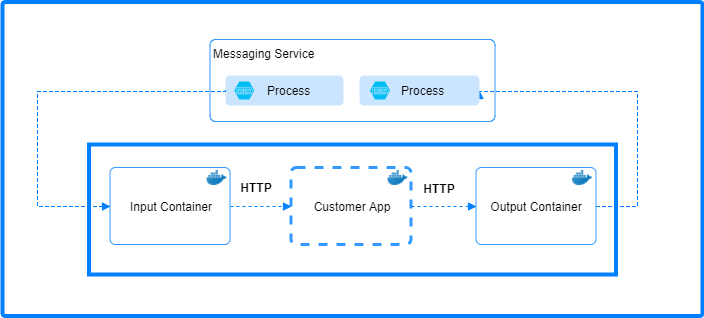
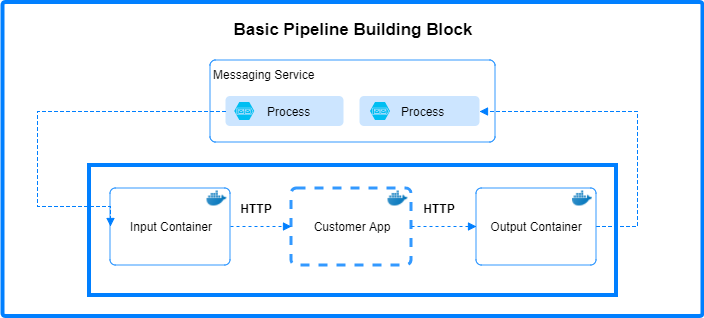
update diagrams acc code review

diff --git a/docs/assets/design/README.md b/docs/assets/design/README.md
@@ -3,9 +3,14 @@
 # Architecture Diagram
 
 ## Basic Pipeline Building Block
+
+The following is a basic, data pipeline, building block consisting of an <input, app, output> sequence. The input/output containers implement connector to various messaging services and act as a message procy between the and the app container. This sequence removes the need to implement connector to various messaging service, and focus on building the business logic inside the app container.
+
 ![Architecure Diagram - Basic Pipeline Building Block](./agogosml.draw-io-input-output-app-simple.png)
 
-## CI/CD
+See [here](#pipeline-building-blobk-description) for a detailed diagram.
+
+## CI/CD Pipeline
 ![Architecure Diagram - ci/cd](./agogosml.draw-io-CI-CD.png)
 
 ## Production Architecture
